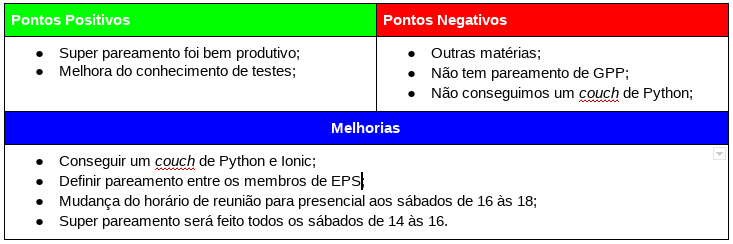
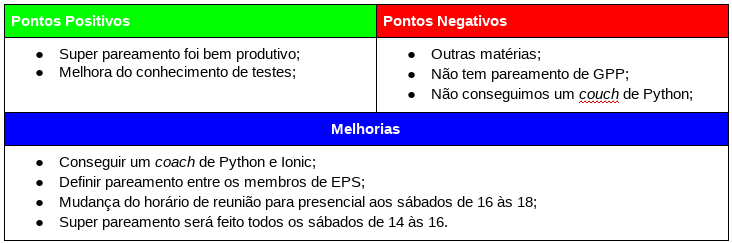
Added commits chart and corrected some errors.

diff --git a/docs/sprints/sprint06/results.md b/docs/sprints/sprint06/results.md
@@ -59,7 +59,7 @@ Quanto às melhorias foi levantado o seguinte:
 * Focar no _backend_: não foi bom, pois adia riscos que podem acontecer no _frontend_.
 * Testar as histórias: foi bom, pois melhora a qualidade do produto.
 * Mudar arquitetura para microsserviços: não foi bom, pois gera muito retrabalho e por isso não será feito.
-* Aproveitar melhor os couchs: não ocorreu nessa _Sprint_, mas o time tentará aplicar na próxima.
+* Aproveitar melhor os coaches: não ocorreu nessa _Sprint_, mas o time tentará aplicar na próxima.
 * Acrescentar mais code reviews: não houve uma melhora, pois a análise dos _pull requests_ atrasou. Na próxima _sprint_ o time tentará aproveitar melhor essa mudança.
 
 
